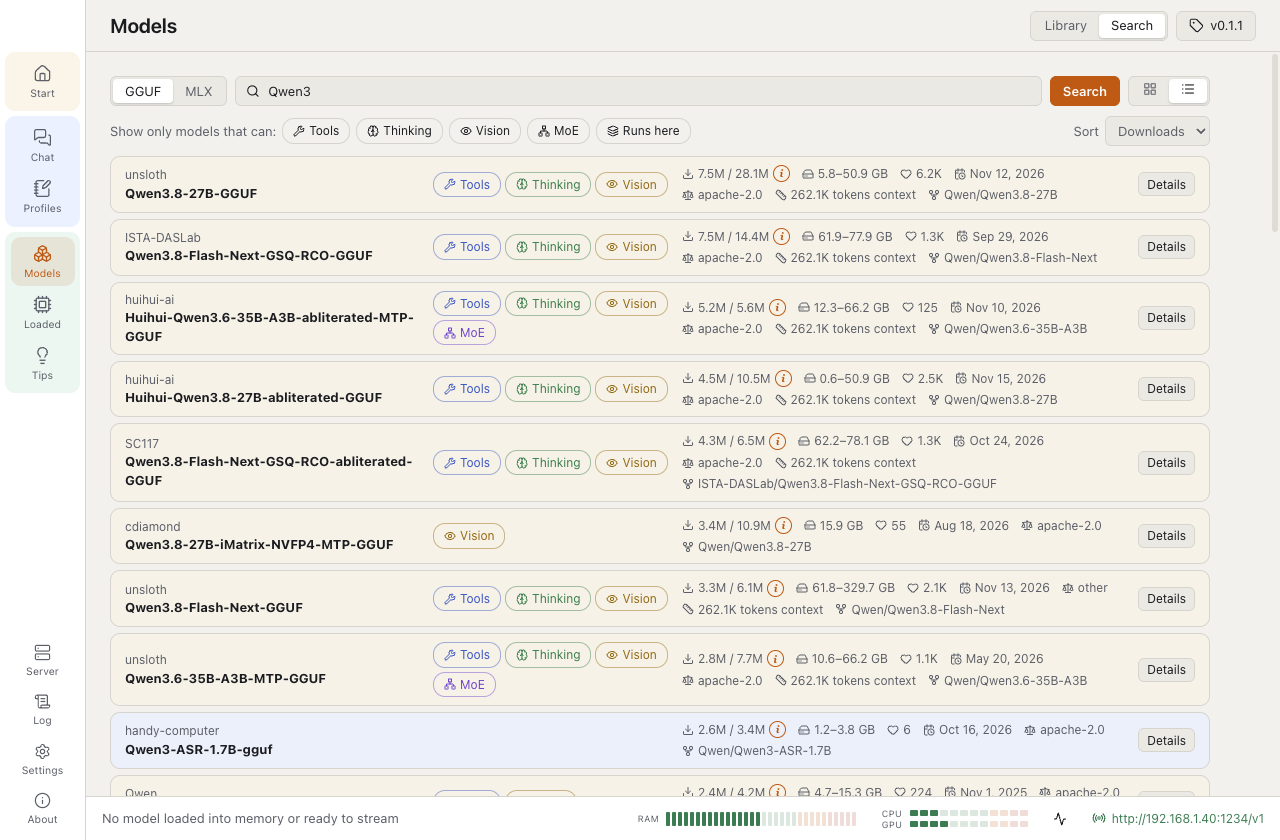
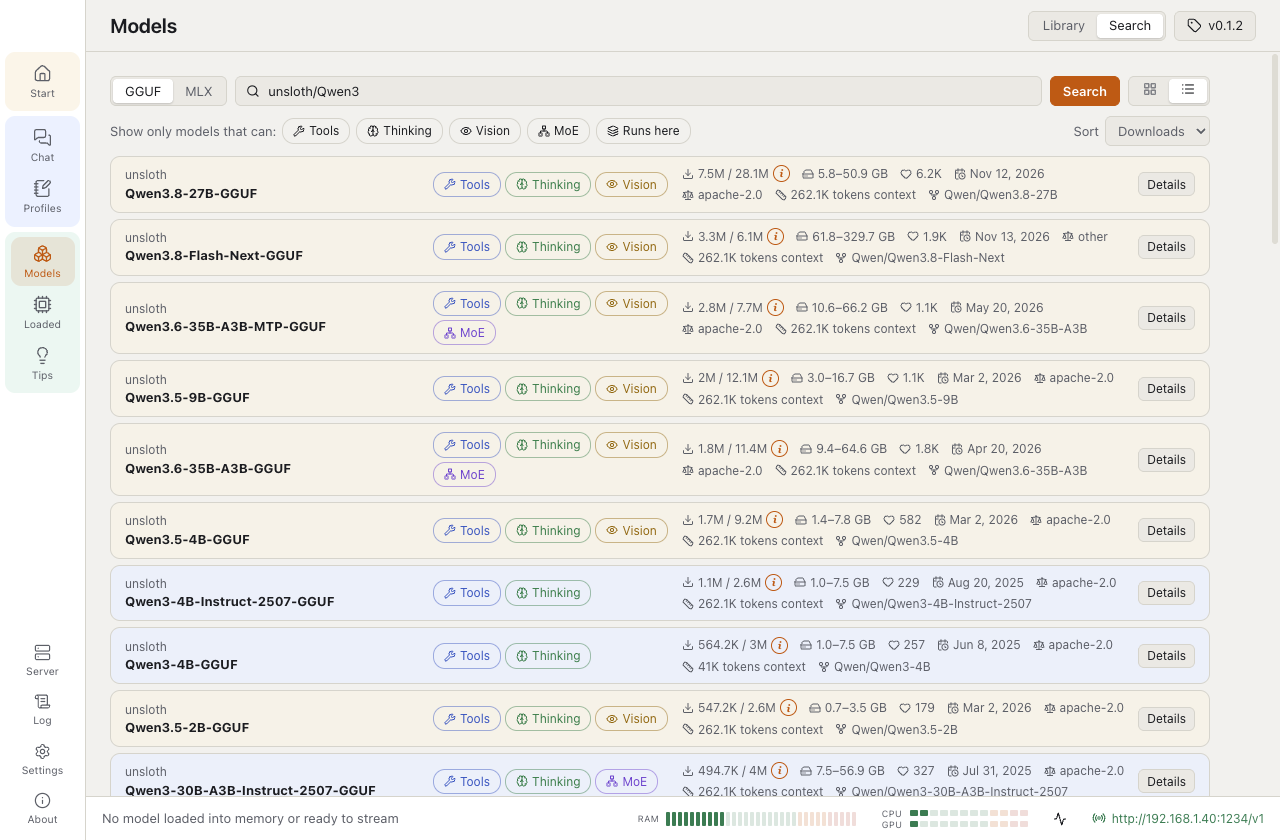
okAI-helper 0.1.2: changes and search screenshot

diff --git a/CHANGELOG.md b/CHANGELOG.md
@@ -1,5 +1,12 @@
 # Changelog
 
+## 0.1.2 (2026-11-21)
+
+- Downloads and the update check try a failed connection again, twice, after 2 and 5 seconds (GitHub refused
+  connections for hours on 2026-11-21: installing a runtime, a download from Hugging Face and the update check failed
+  until they were started again). Only a connection that got no answer is tried again; a switch under Privacy and
+  network that is turned off in between, or a cancelled download, stops it at once.
+
 ## 0.1.1 (2026-11-21)
 
 - Prompt cache per model (Settings, Hardware; 2 GB by default): llama.cpp keeps earlier prompts in memory, so going back
